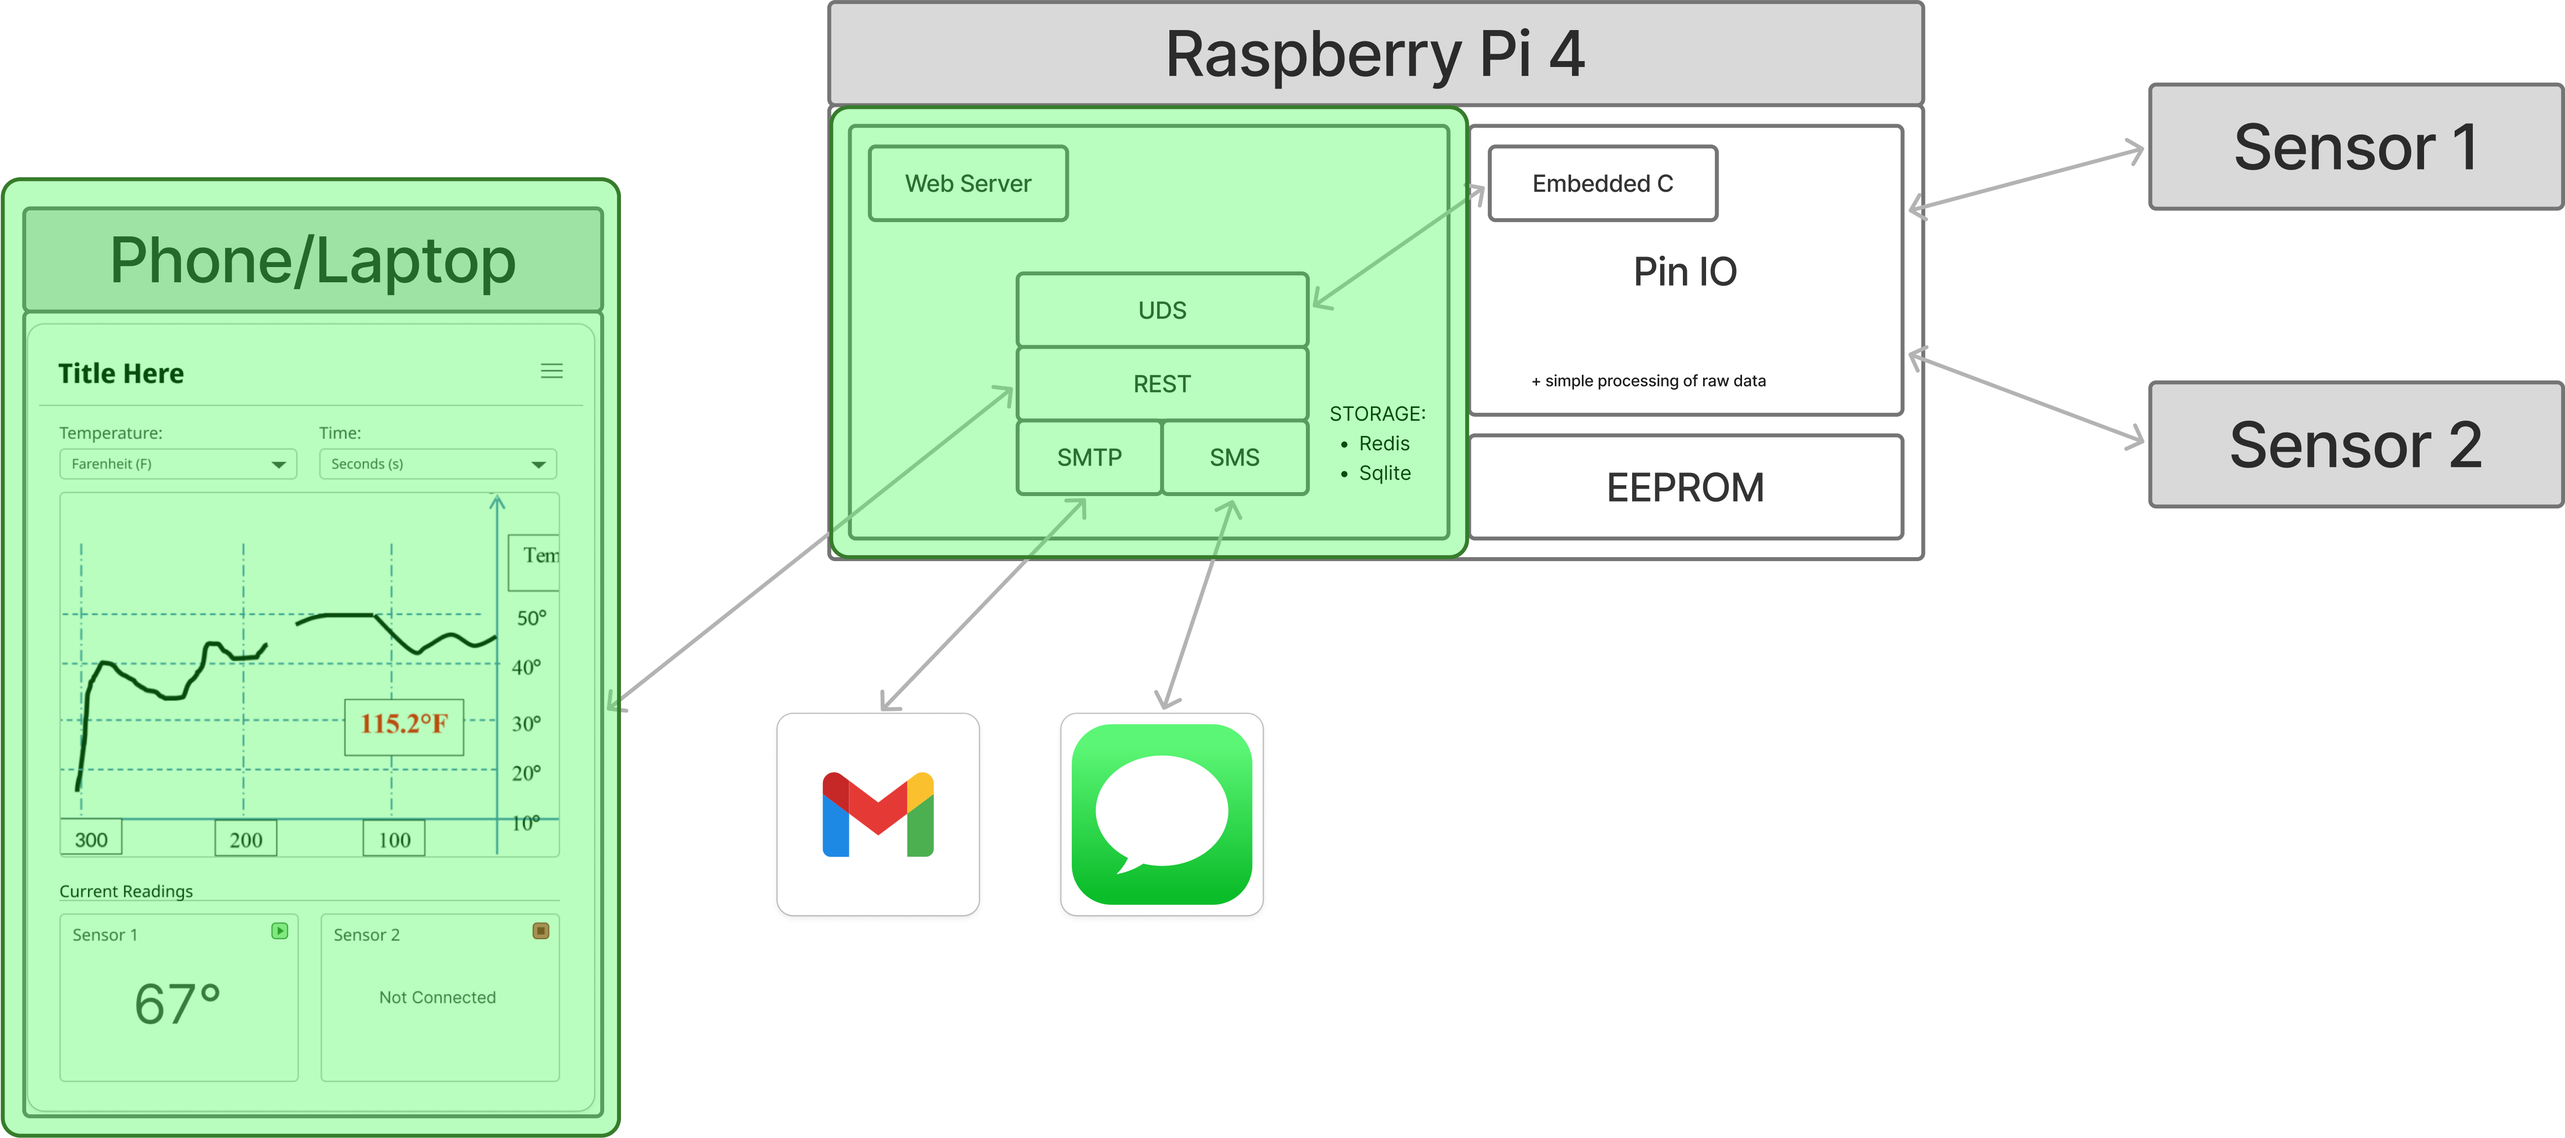
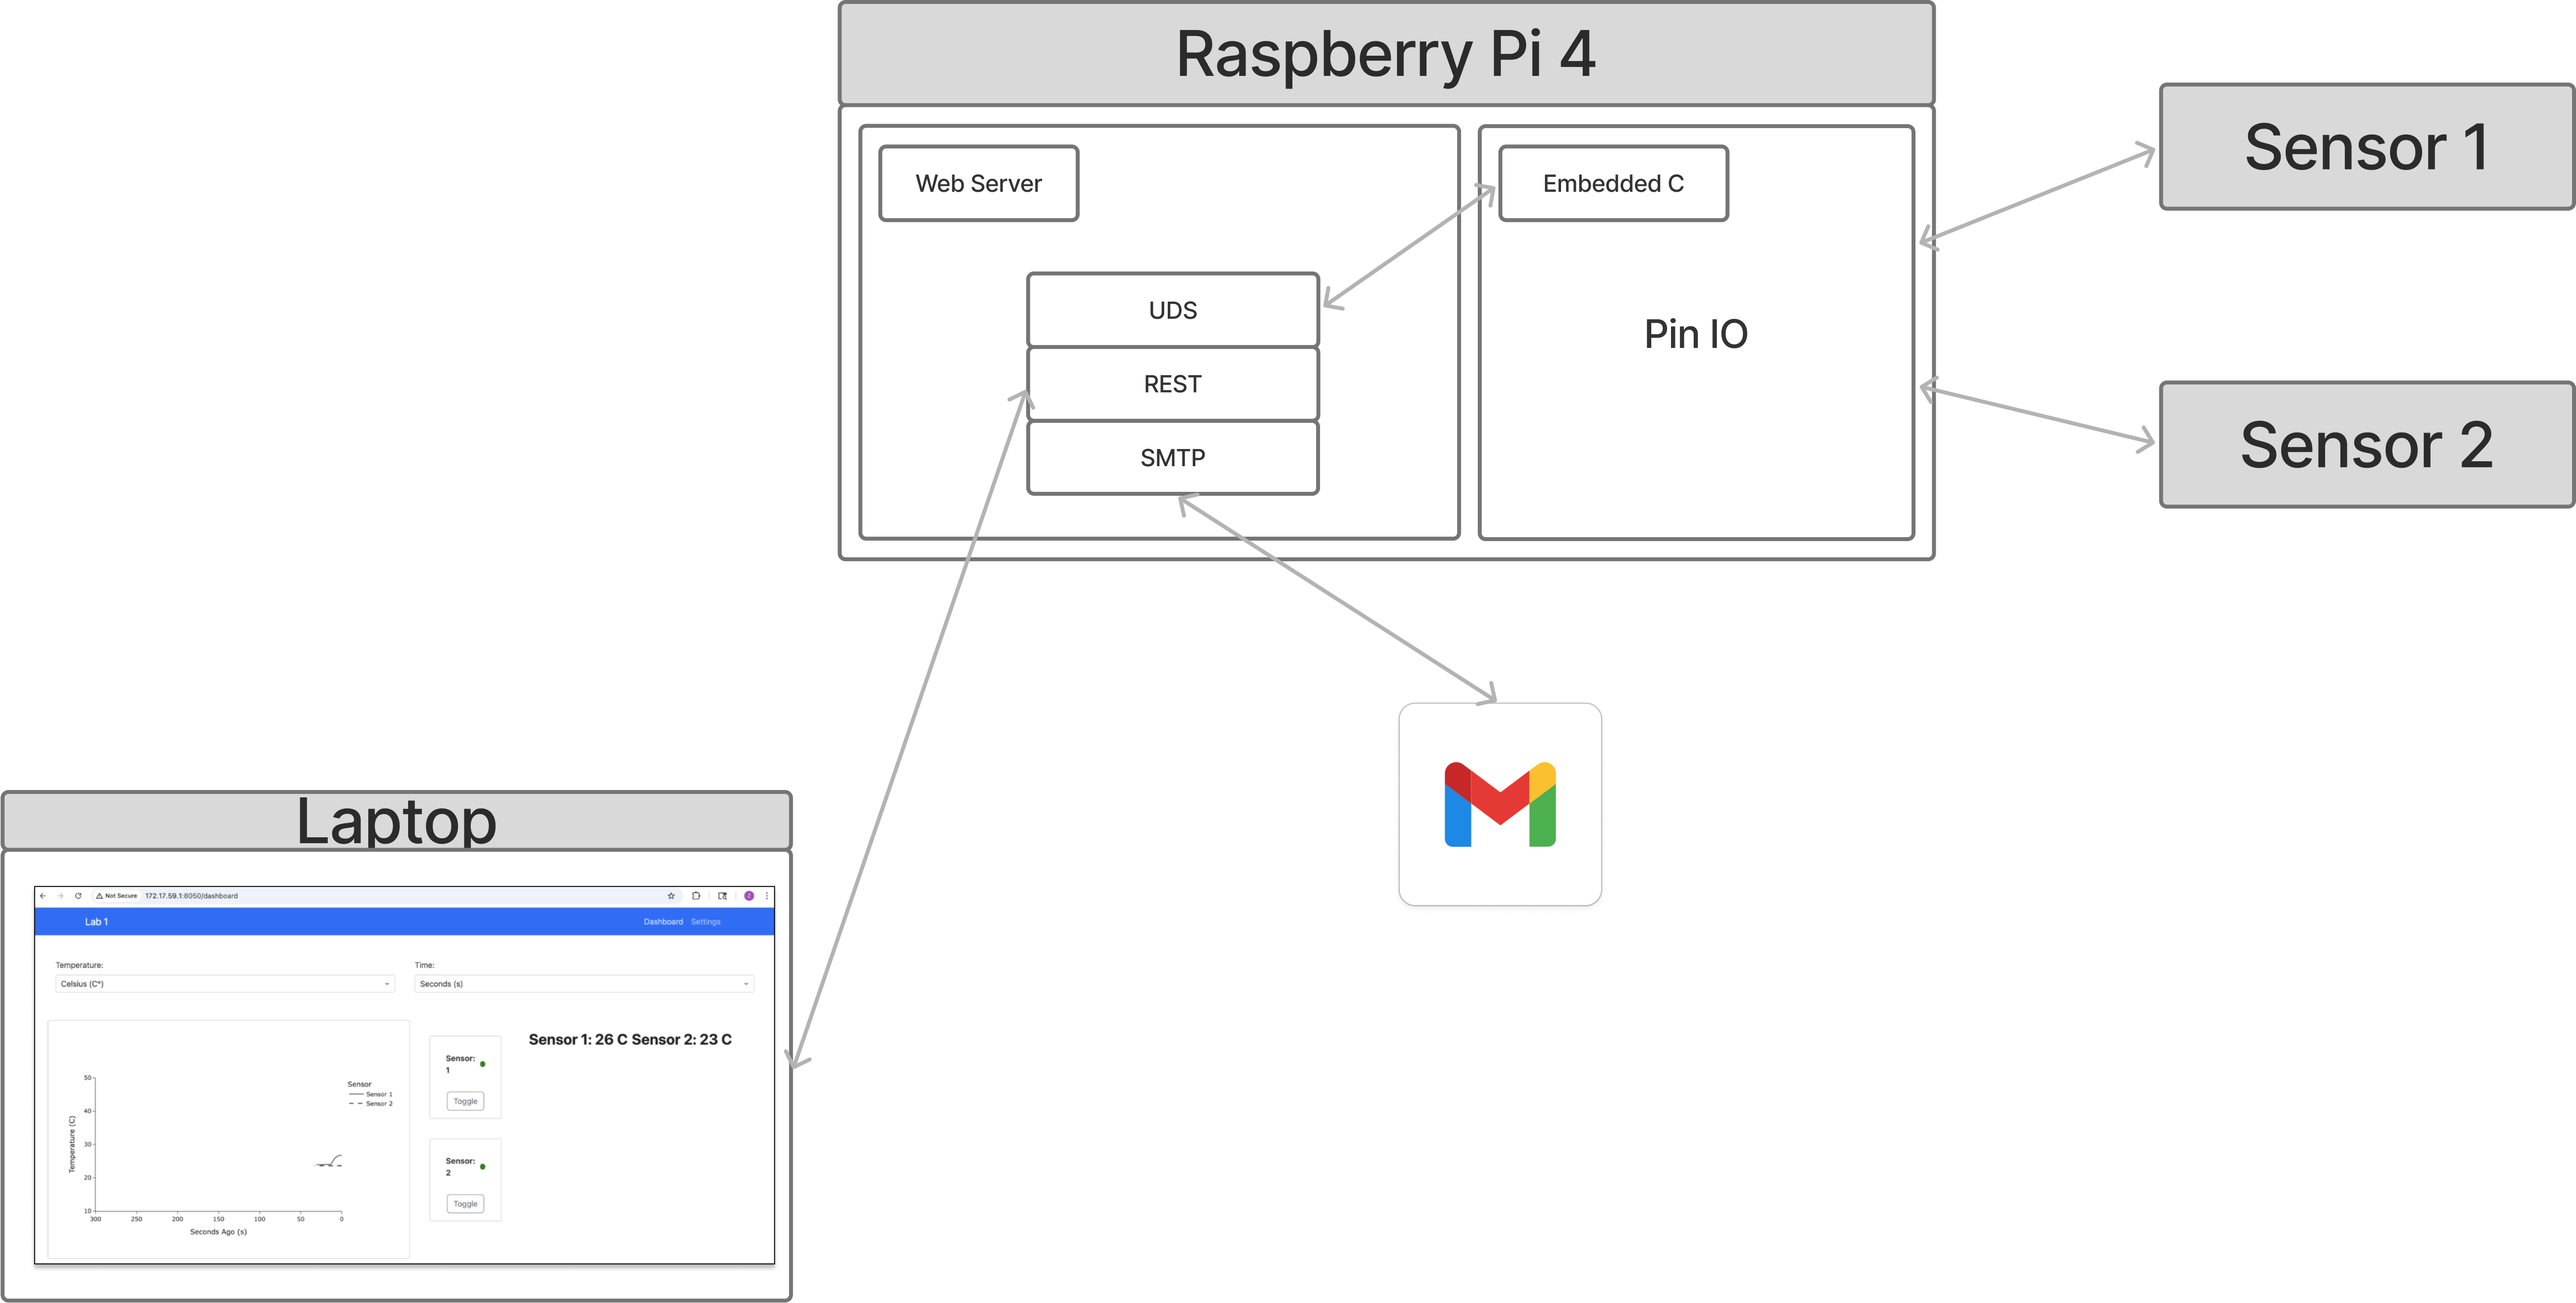
update readme

diff --git a/README.md b/README.md
@@ -2,49 +2,15 @@
 Plotly Dash Web-Server Responsible for displaying the temperature readings visually.
 
 <div align="center">
-
-![alt text](img/project_diagram.png)
-<br>
-<span style="display:block; text-align:center; font-style:italic;">Project Diagram</span>
+  <img src="img/project_diagram.png" alt="System Architecture" width="800">
+  <div><em>System Architecture</em></div>
+   <br>
 </div>
 
 <div align="center">
-
-![alt text](img/sqlite_schemas.png)
-<br>
-<span style="display:block; text-align:center; font-style:italic;">Sqlite Schemas</span>
+  <img src="img/image.png" alt="System Architecture" width="800">
+  <div><em>Dashboard</em></div>
 </div>
-
-## Data Sharing and Storage
-
-Dash is session-based per client, which makes viewing and modifying the system between multiple users troublesome.  
-We want the status and stream of data to be identical across clients. For example, if client 'A' turns sensor 1 on, this is reflected in client 'B's view.
-
-To achieve performance and persistence, we employ the following architecture:
-
-### 1. Global State: Redis
-**Purpose:** Shared, real-time state across all clients  
-**Stored globally:**
-- Sensor 1 status
-- Sensor 2 status
-- Streaming data
-
-### 2. Session State: `dcc.Store` (Client-side Browser Cache)
-**Purpose:** Per-user session state for UI selections  
-**Cached locally:**
-- Temperature unit selection
-- Timeframe selection
-
-### 3. Persistent Storage: SQLite Database
-**Purpose:** Long-term, reliable data storage  
-**Persisted:**
-- Streaming data (written by the embedded program)
-- temperature_readings: read-only
-- user: R/W
-
----
-
-## Project Setup
 
 ### Setting up the Project
 
@@ -62,23 +28,4 @@ Using [UV](https://docs.astral.sh/uv/) as the package manager (≤10x faster tha
 4. Run the application:
    ```sh
    uv run app/app.py
-   ```
-
----
-
-## Running Ruff
-
-Optional code quality check using [Ruff](https://docs.astral.sh/ruff/):
-
-1. Install `ruff`:
-   ```sh
-   uv add --dev ruff
-   ```
-2. Check for syntax issues:
-   ```sh
-   uv run ruff check
-   ```
-3. Automatically fix issues:
-   ```sh
-   uv ruff check --fix
    ```
